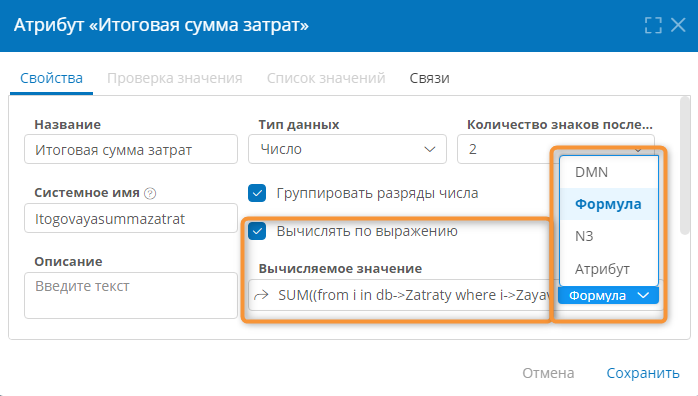
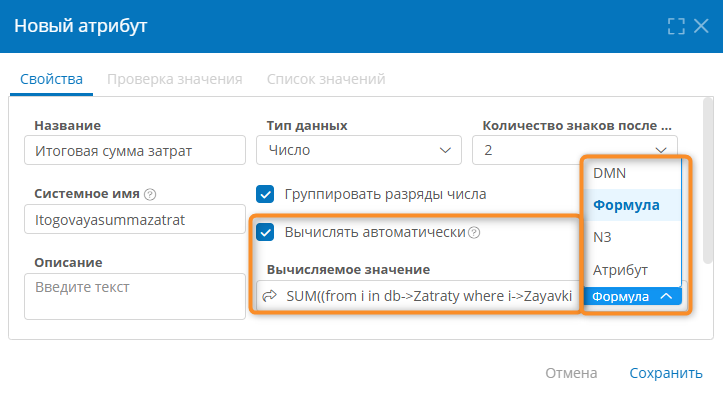
[#1939174] Edited calculated attributes info

diff --git a/docs/ru/business_apps/templates/attributes/calculated_attribute.md b/docs/ru/business_apps/templates/attributes/calculated_attribute.md
@@ -30,6 +30,7 @@ hide:
     - [Роль][attribute_role]
     - [Атрибут типа «Список значений»][attribute_enum]
     - [Текст][attribute_text]
+    - [Часовой пояс][attribute_timezone]
     - [Число][attribute_number]
 - Значение вычисляемого атрибута не хранится в базе данных и недоступно для изменения конечным пользователем приложения.
 - Значение вычисляется в момент отображения в интерфейсе пользователя и при обращении к нему.
@@ -47,9 +48,9 @@ hide:
 !!! note "Примечание"
 
     - Вычисляемое выражение должно возвращать результат, соответствующий [типу атрибута][attributes].
-    - Если снять флажок «**Вычислять по выражению**» и сохранить атрибут, то атрибут перестанет быть вычисляемым и выражение для вычисления значения будет утрачено.
+    - Если снять флажок «**Вычислять автоматически**» и сохранить атрибут, то атрибут перестанет быть вычисляемым и выражение для вычисления значения будет утрачено.
 
-1. Установите флажок «**Вычислять по выражению**» в [свойствах атрибута][attributes_configure].
+1. Установите флажок «**Вычислять автоматически**» в [свойствах атрибута][attributes_configure].
 2. В отобразившемся поле «**Вычисляемое значение**» выберите способ вычисления значения: «**Формула**», «**DMN**», «**N3**» или «**Атрибут**».
 
     _![Поле «Вычисляемое значение»](img/calculated_attribute_calculated_expression.png)_

diff --git a/docs/ru/examples/attribute_enum_calculate_current_value.md b/docs/ru/examples/attribute_enum_calculate_current_value.md
@@ -39,7 +39,7 @@ kbId: 4913
 2. Создайте атрибут _«Одобрено»_ со следующими свойствами:
 
     - **Тип данных: логический**
-    - **Вычислять по выражению**: флажок установлен
+    - **Вычислять автоматически**: флажок установлен
     - **Вычисляемое значение: формула**
 
         ``` cs
